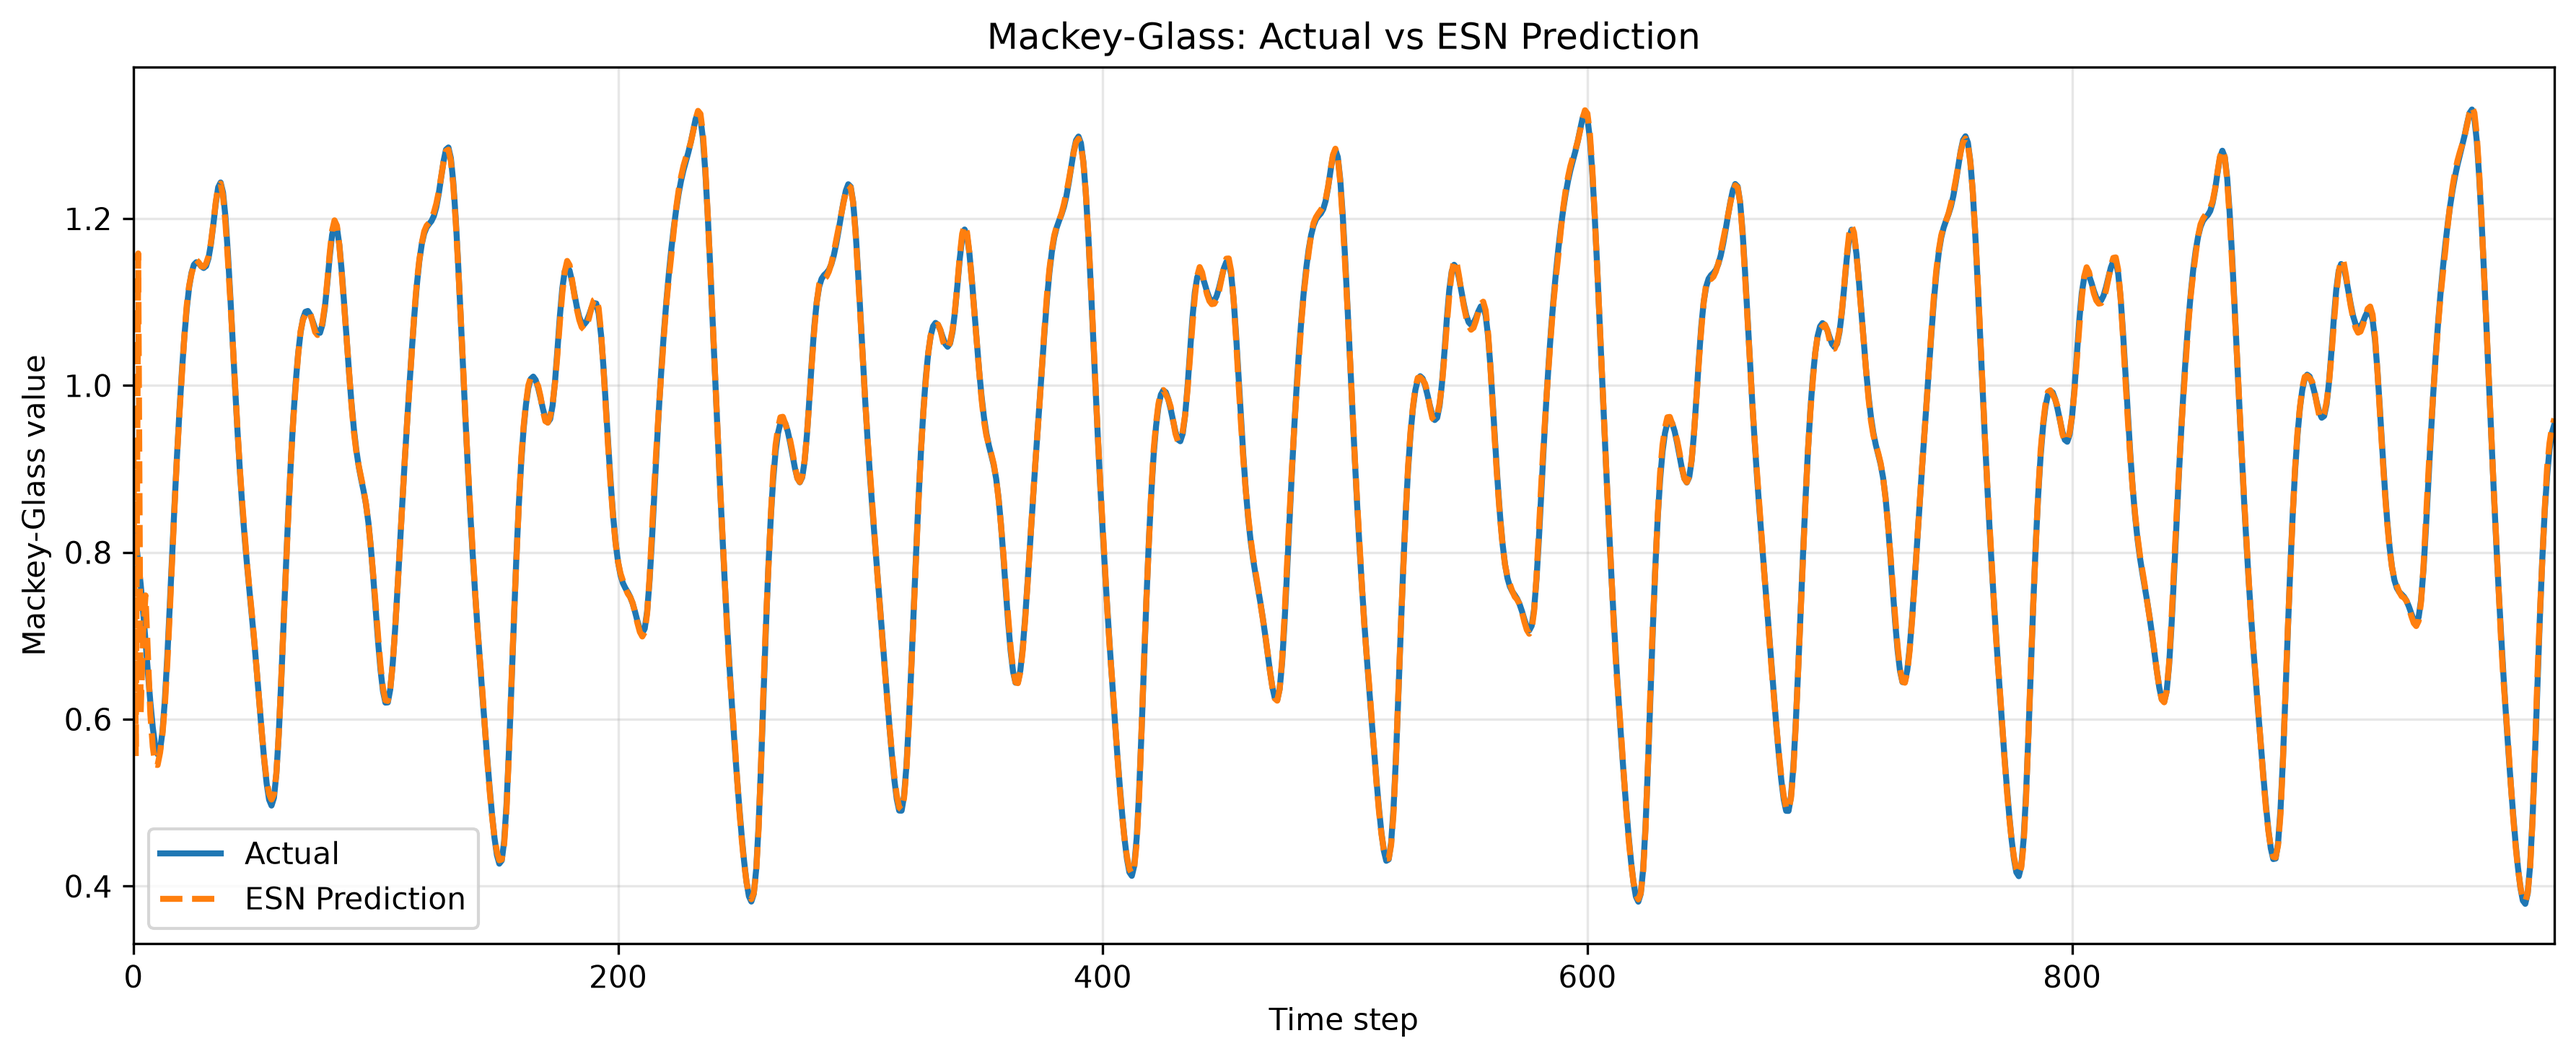
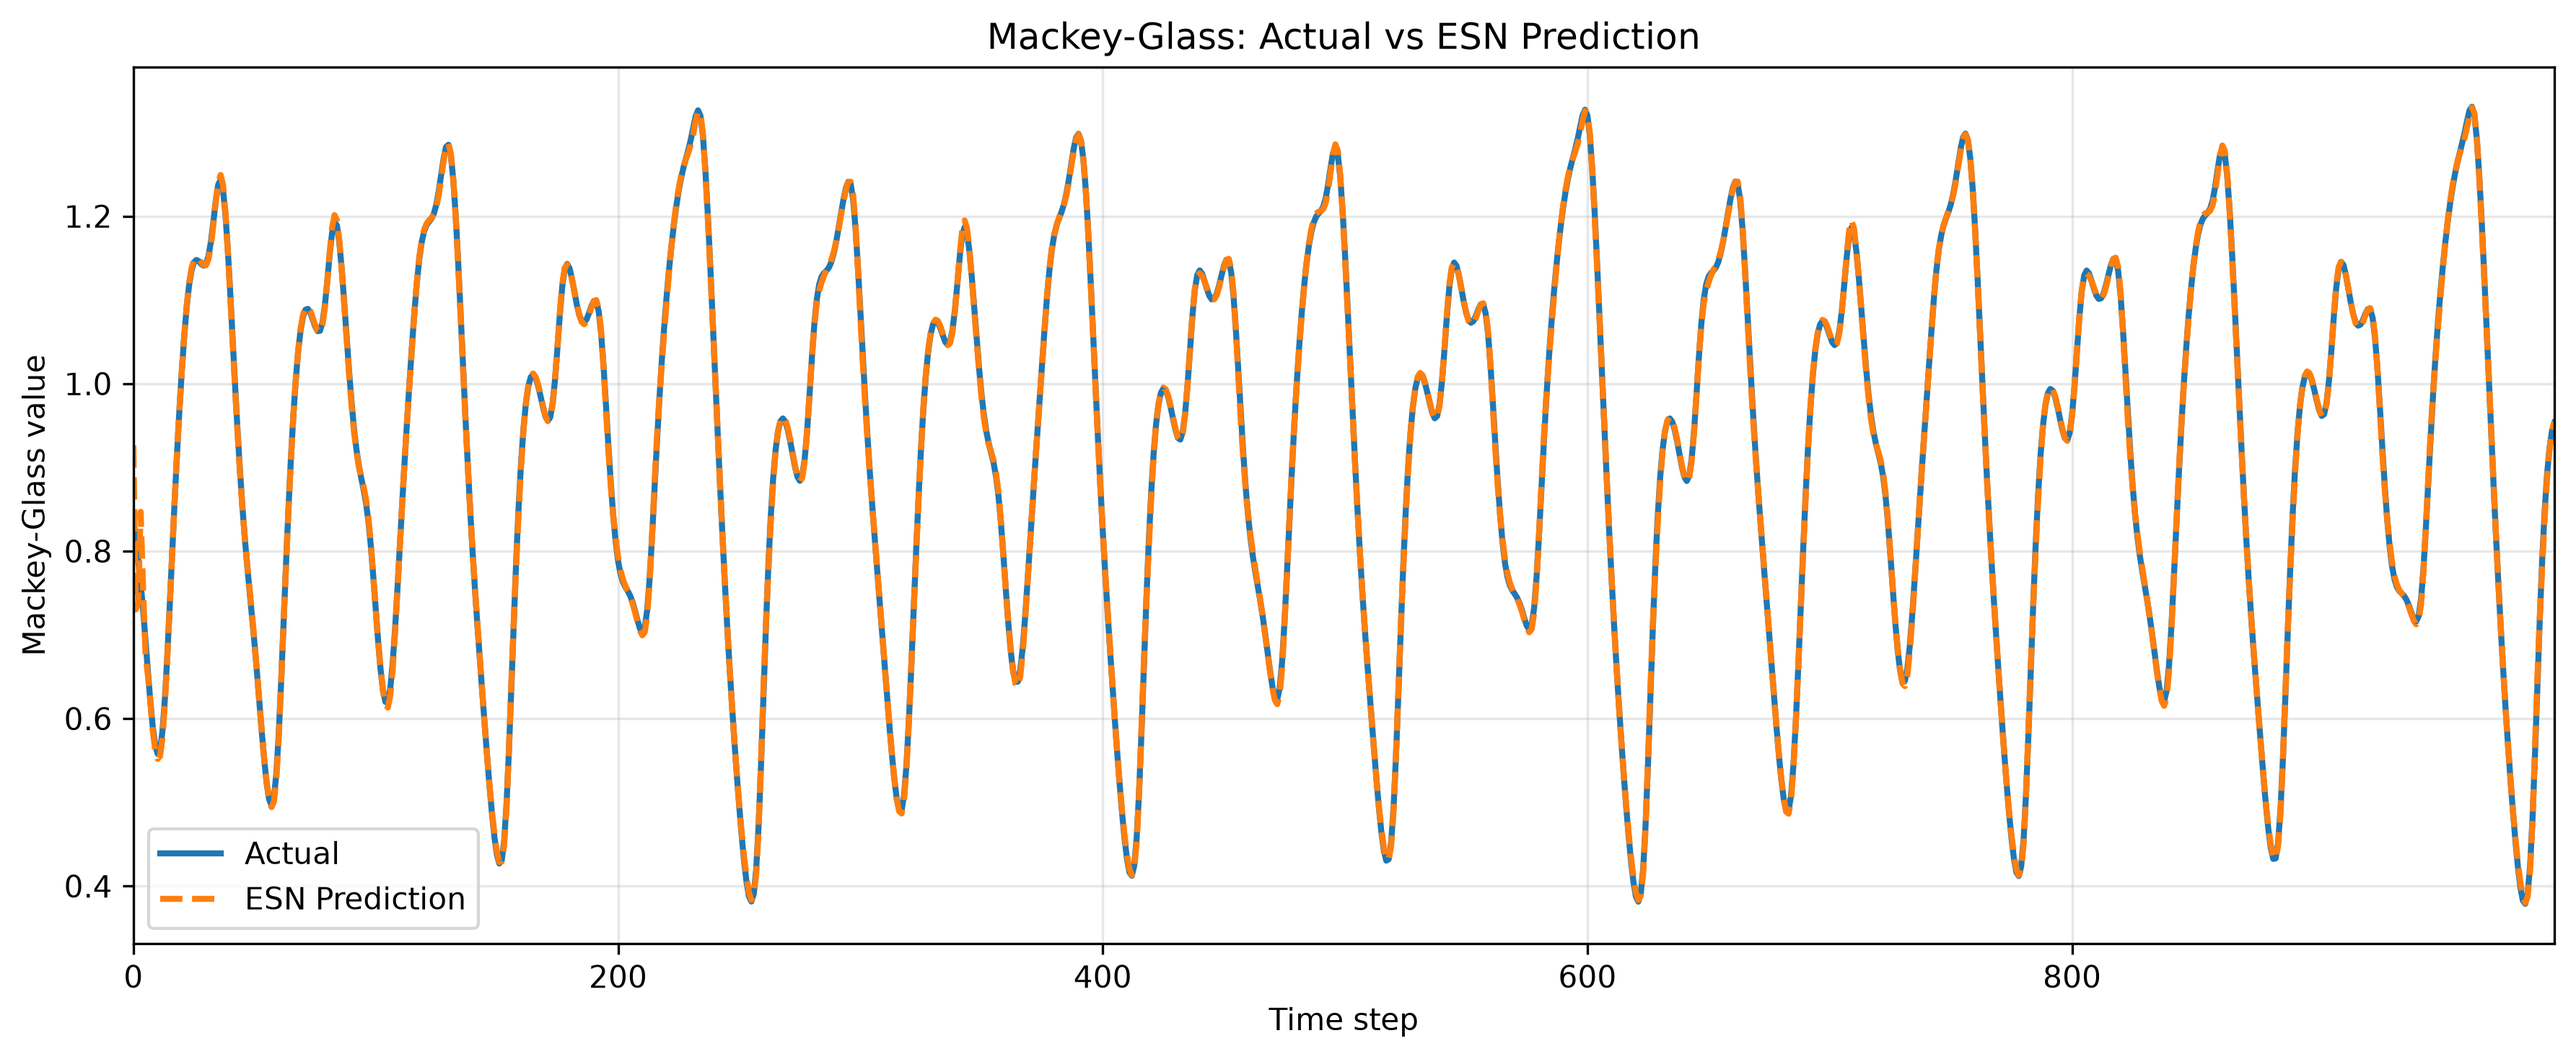
Results from main saved and seed corrected

diff --git a/main/source_code/utils.py b/main/source_code/utils.py
@@ -230,7 +230,7 @@ def save_predictions(y_actual, y_pred, model_name, save_path, n_points=1000):
 
 def clear_directory(dir):
     """
-    Remove all files from the specified directory or create directory if does not exist.
+    Remove all files from the specified directory.
 
     Parameters
     ----------
@@ -240,11 +240,7 @@ def clear_directory(dir):
 
     dir = Path(dir)
 
-    if dir.exists():
-        # Remove all files in the output directory
-        for file in dir.iterdir():
-            if file.is_file():
-                file.unlink()
-    else:
-        # Create:
-        dir.mkdir(parents=True, exist_ok=True)
+    # Remove all files in the output directory
+    for file in dir.iterdir():
+        if file.is_file():
+            file.unlink()

diff --git a/gui/utils.py b/gui/utils.py
@@ -13,7 +13,7 @@ from fine_tuning.source_code import tuning
 
 NUM_EPOCHS = 100
 PATIENCE = 5
-SEED = 42
+SEED = 0
 
 BASE_DIR = Path(__file__).resolve().parent.parent
 
